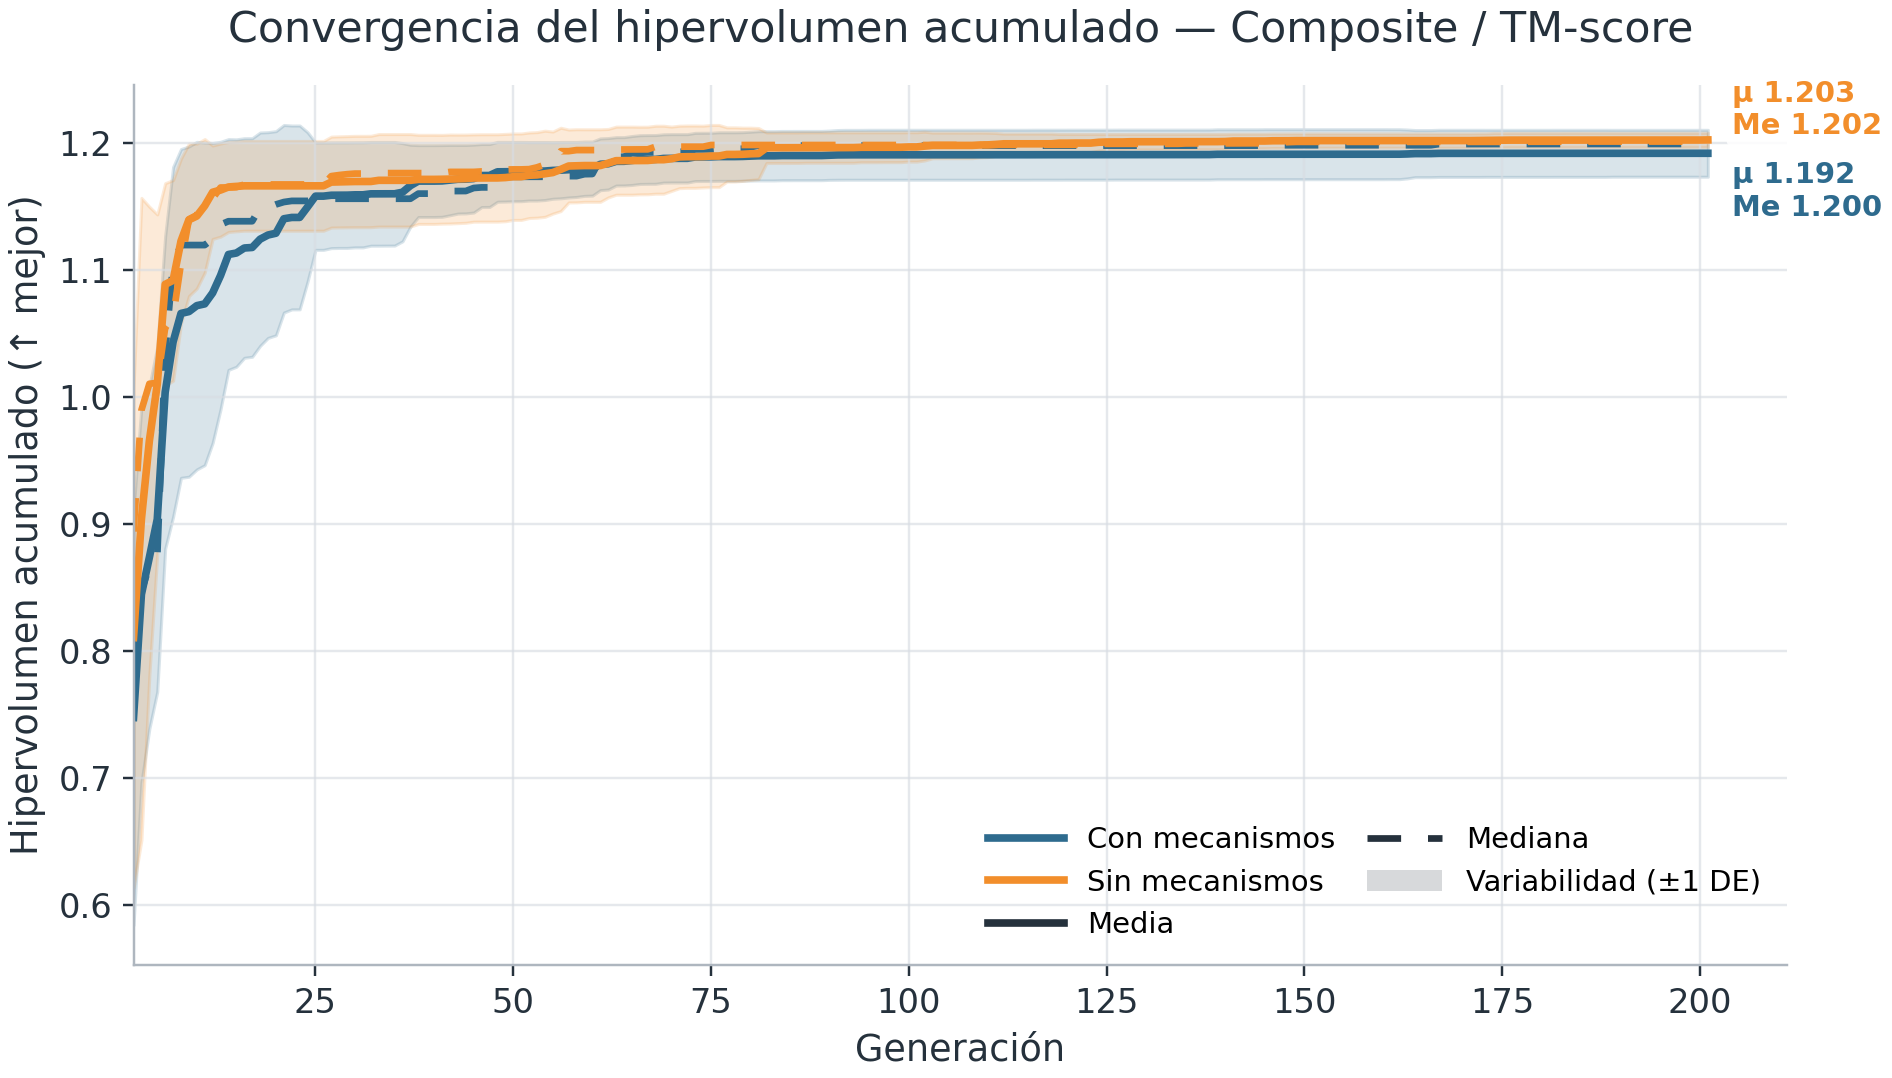
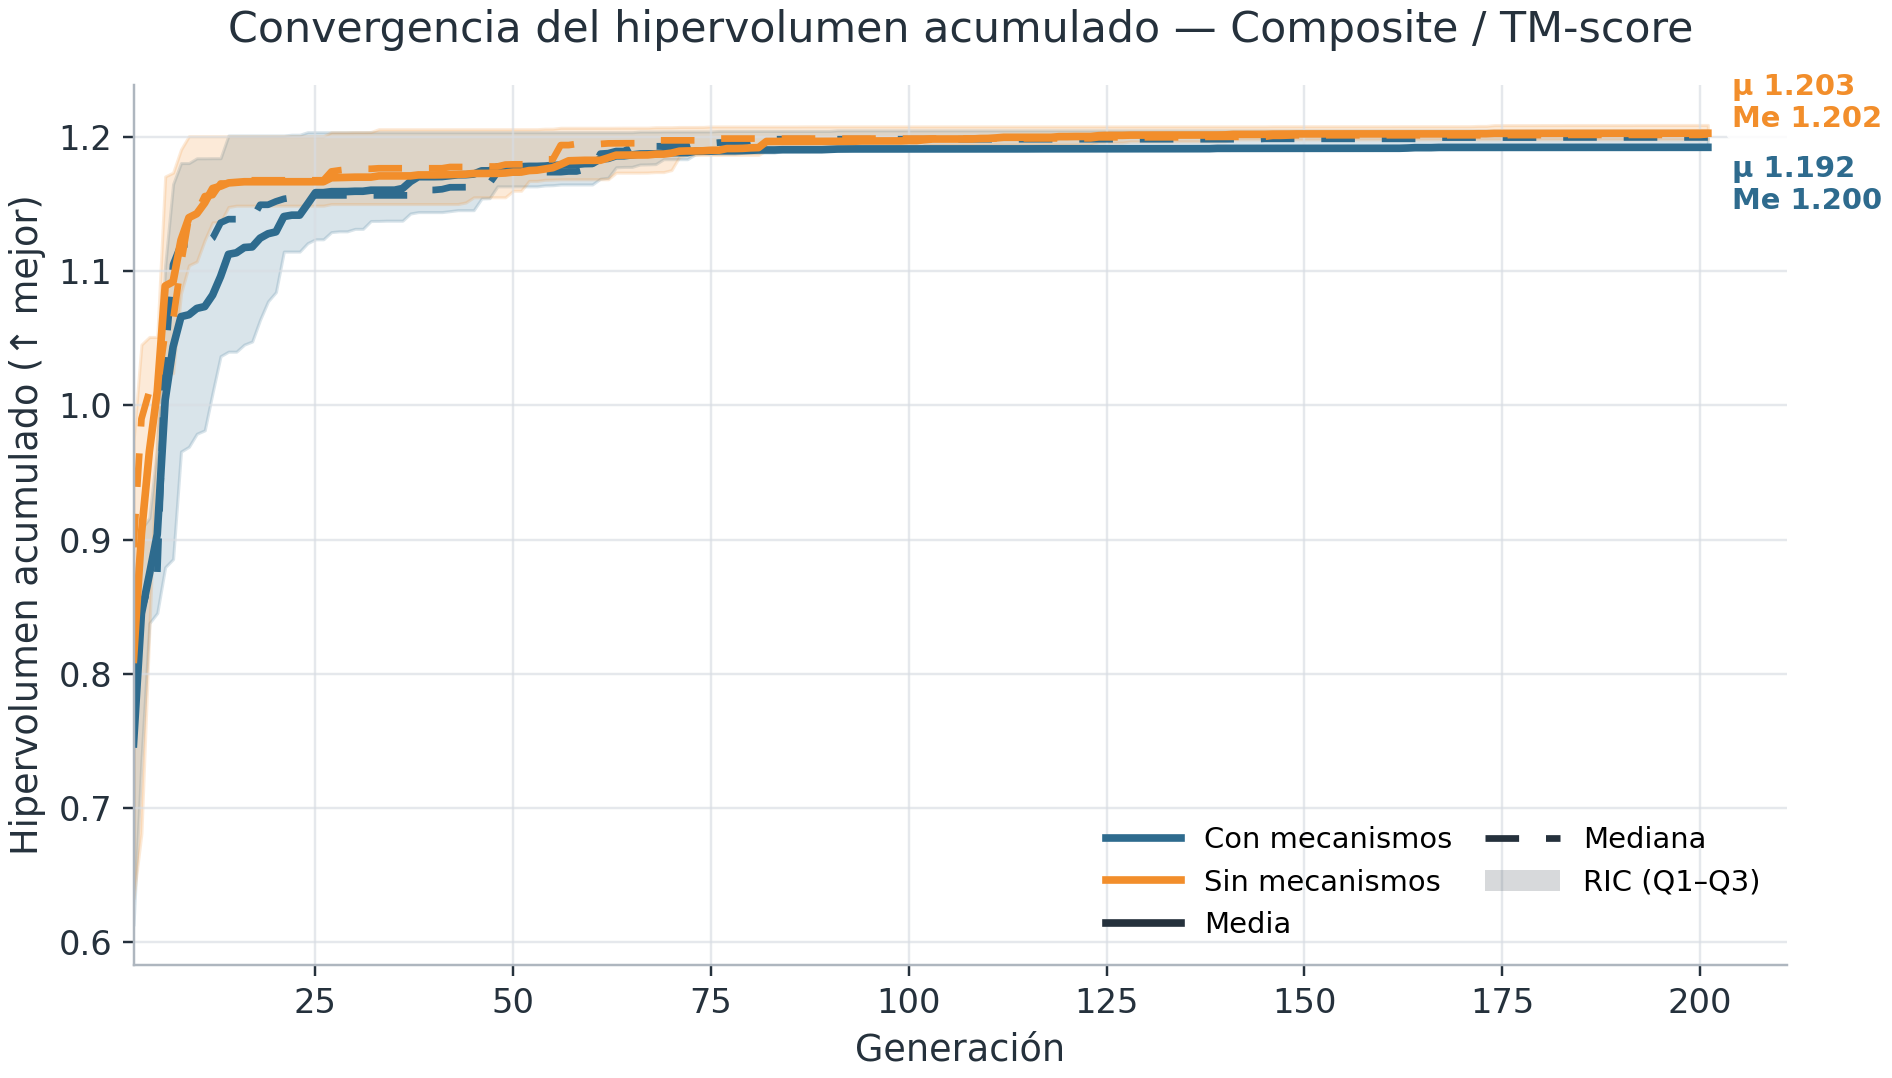
Refine ablation variability plots and PDB paths

Changed region(s): [[0.0312, 0.0612, 0.9979, 0.7653], [0.4989, 0.7653, 0.9355, 0.8878], [0.0312, 0.8265, 0.0624, 0.8878]]

diff --git a/src/pages/ablacion-convergencia.tsx b/src/pages/ablacion-convergencia.tsx
@@ -44,7 +44,7 @@ const H0_UNI =
   "MOEA-UD con mecanismos obtiene un HV acumulado final igual o menor que la versión sin mecanismos.";
 const H1_UNI =
   "MOEA-UD con mecanismos obtiene un HV acumulado final mayor que la versión sin mecanismos.";
-const ABLATION_FIGURE_VERSION = "median-v1";
+const ABLATION_FIGURE_VERSION = "iqr-v1";
 
 const SLIDES: SlideData[] = [
   {
@@ -163,7 +163,7 @@ function SlideView({ data }: { data: SlideData }) {
           *** p&lt;0.001, ** p&lt;0.01, * p&lt;0.05, n.s. = no significativo.
           Hipervolumen acumulado final por réplica; n = 10 réplicas
           independientes por condición. Línea sólida: media; línea discontinua:
-          mediana; banda: variabilidad entre réplicas.
+          mediana; banda sombreada: rango intercuartil (Q1–Q3) entre réplicas.
         </p>
       </div>
     </motion.div>

diff --git a/scripts/build_ablation_cumhv.py b/scripts/build_ablation_cumhv.py
@@ -167,18 +167,18 @@ def plot_pair(spec: PairSpec) -> tuple[Path, dict[str, float], dict[str, int]]:
 
     mech_mean = mech_mat.mean(axis=0)
     mech_median = np.median(mech_mat, axis=0)
-    mech_std = mech_mat.std(axis=0, ddof=0)
+    mech_q1 = np.quantile(mech_mat, 0.25, axis=0)
+    mech_q3 = np.quantile(mech_mat, 0.75, axis=0)
     no_mech_mean = no_mech_mat.mean(axis=0)
     no_mech_median = np.median(no_mech_mat, axis=0)
-    no_mech_std = no_mech_mat.std(axis=0, ddof=0)
+    no_mech_q1 = np.quantile(no_mech_mat, 0.25, axis=0)
+    no_mech_q3 = np.quantile(no_mech_mat, 0.75, axis=0)
 
     fig, ax = plt.subplots(figsize=(8.6, 4.9), constrained_layout=True)
     style_axes(ax)
 
-    ax.fill_between(grid, mech_mean - mech_std, mech_mean + mech_std, color=MECH, alpha=0.18)
-    ax.fill_between(
-        grid, no_mech_mean - no_mech_std, no_mech_mean + no_mech_std, color=NO_MECH, alpha=0.18
-    )
+    ax.fill_between(grid, mech_q1, mech_q3, color=MECH, alpha=0.18)
+    ax.fill_between(grid, no_mech_q1, no_mech_q3, color=NO_MECH, alpha=0.18)
     ax.plot(grid, mech_mean, color=MECH, linewidth=2.5)
     ax.plot(grid, mech_median, color=MECH, linewidth=2.2, linestyle=(0, (5, 4)))
     ax.plot(grid, no_mech_mean, color=NO_MECH, linewidth=2.5)
@@ -193,7 +193,7 @@ def plot_pair(spec: PairSpec) -> tuple[Path, dict[str, float], dict[str, int]]:
             Line2D([0], [0], color=NO_MECH, linewidth=2.5, label="Sin mecanismos"),
             Line2D([0], [0], color=TEXT, linewidth=2.5, label="Media"),
             Line2D([0], [0], color=TEXT, linewidth=2.2, linestyle=(0, (5, 4)), label="Mediana"),
-            Patch(facecolor=TEXT, edgecolor="none", alpha=0.18, label="Variabilidad (±1 DE)"),
+            Patch(facecolor=TEXT, edgecolor="none", alpha=0.18, label="RIC (Q1–Q3)"),
         ],
         frameon=False,
         fontsize=9.5,

diff --git a/scripts/build_ablation_front.py b/scripts/build_ablation_front.py
@@ -21,6 +21,10 @@ SOURCES = {
     "con": RUN / "outputs_moeaud_interface_pae_plddt/outputs_moeaud_interface_pae_plddt_02/outputs",
     "sin": RUN / "outputs_moeaud_interface_pae_plddt_10_no_mech/run_09/outputs",
 }
+PDB_SUBDIR = {
+    "con": "con_mech",
+    "sin": "sin",
+}
 
 # Estadísticas globales (todas las réplicas) para la leyenda.
 STATS = {
@@ -54,7 +58,8 @@ def main():
 
     points = []
     for cond, outputs in SOURCES.items():
-        (PUB / cond).mkdir(parents=True, exist_ok=True)
+        pdb_subdir = PDB_SUBDIR[cond]
+        (PUB / pdb_subdir).mkdir(parents=True, exist_ok=True)
         archive = outputs / "final_pdbs" / "archive"
         for row in read_archive(outputs):
             src_pdb = archive / f"archive_{row['idx']}_pred1.pdb"
@@ -62,7 +67,7 @@ def main():
                 print(f"  WARN: falta {src_pdb}")
                 continue
             dst_name = f"a{row['idx']}.pdb"
-            shutil.copyfile(src_pdb, PUB / cond / dst_name)
+            shutil.copyfile(src_pdb, PUB / pdb_subdir / dst_name)
             binder_seq = row["seq"].split(",")[0]
             # Conversión a la convención corregida e interpretable (minimización).
             # OLD_interface_pae (suma negada) -> PAE medio de interfaz en Å.
@@ -78,7 +83,7 @@ def main():
                     "plddt": round(plddt, 1),
                     "p100": round(p100, 2),
                     "binder": binder_seq,
-                    "pdb": f"/fronts/{cond}/{dst_name}",
+                    "pdb": f"/fronts/{pdb_subdir}/{dst_name}",
                 }
             )
 